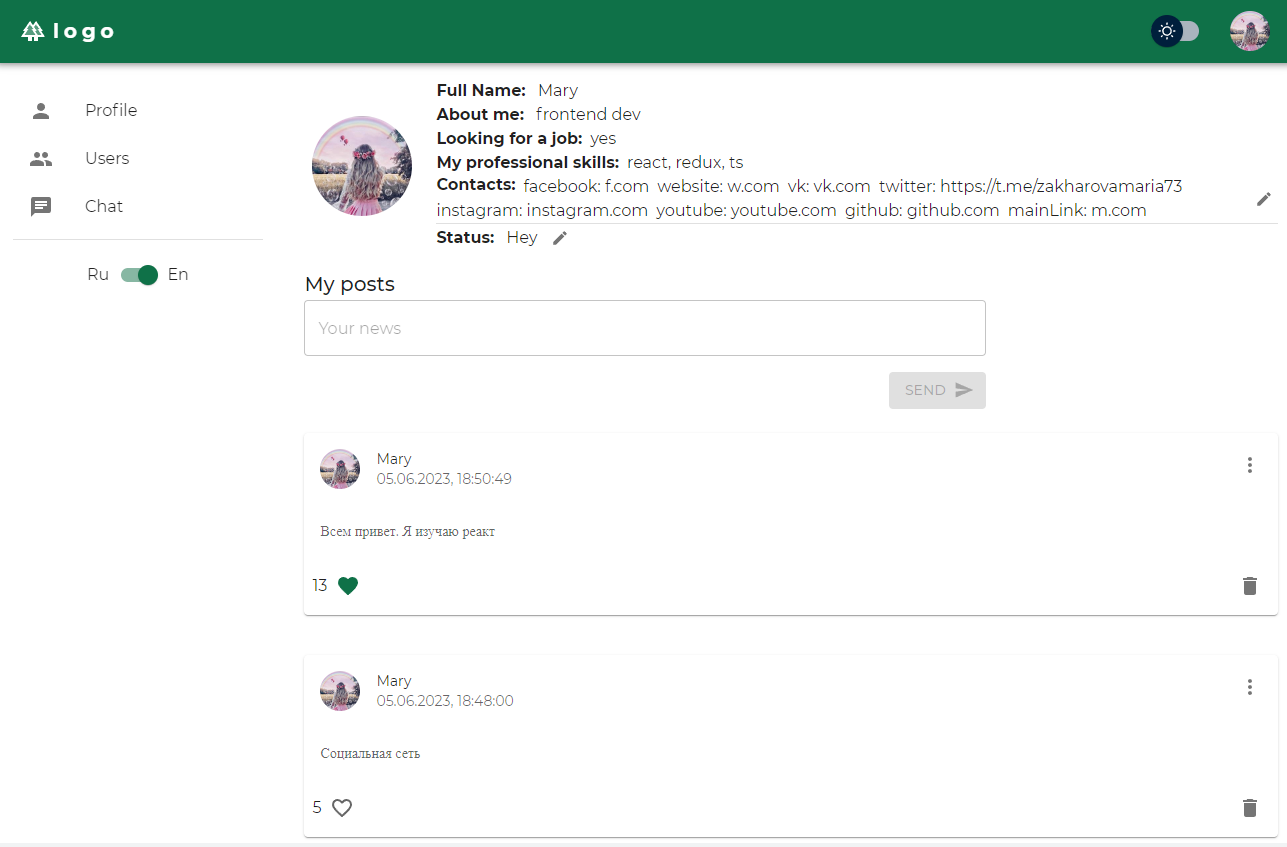
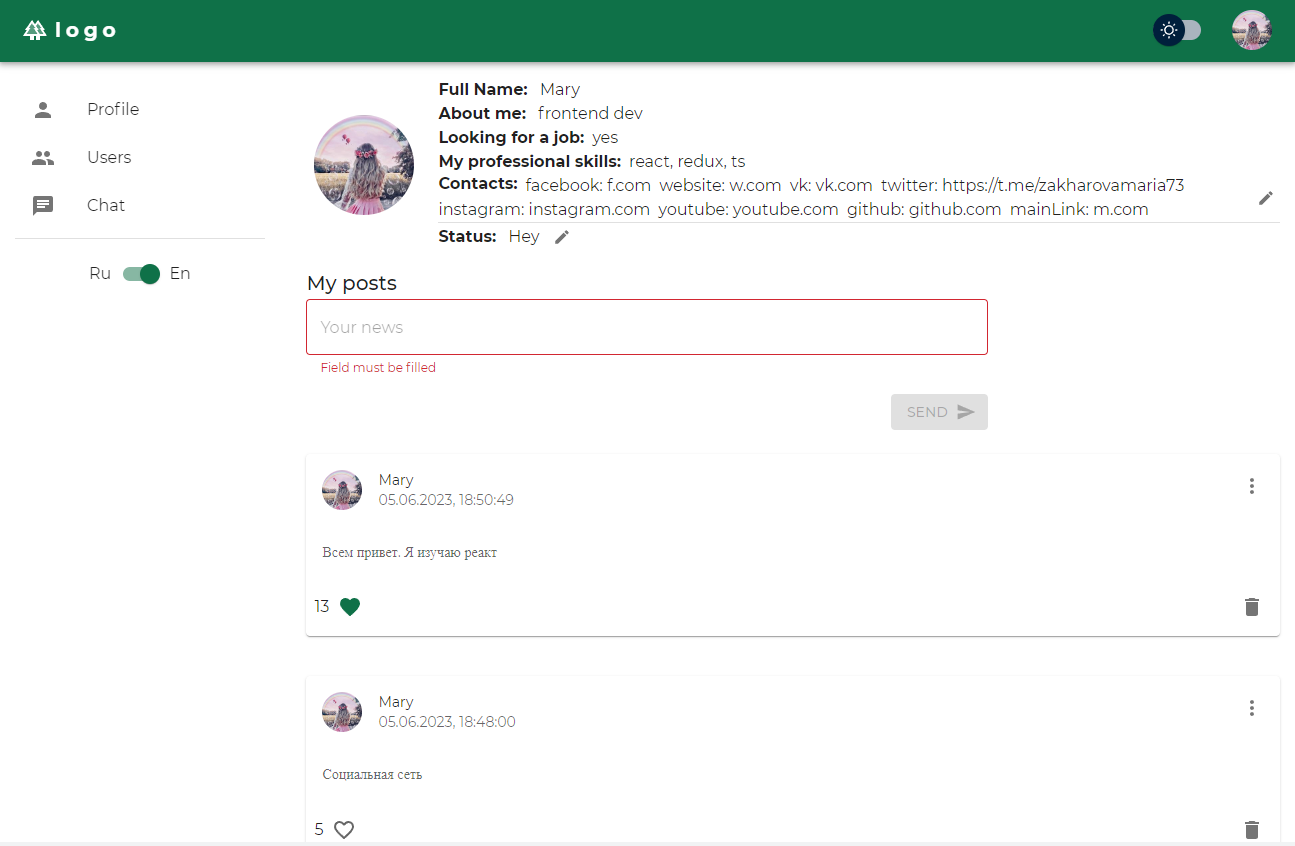
feat: language

diff --git a/src/components/Modal/ProfileForm.tsx b/src/components/Modal/ProfileForm.tsx
@@ -72,7 +72,9 @@ const ProfileForm: FC<IProfileForm> = ({ openForm, handleCloseModal, saveProfile
           <StyledModalForm>
             <FormikForm>
               <Stack spacing={2}>
-                {createField<ProfileFormTypeKeys>("fullName", t("fullName"), touched, errors)}
+                {createField<ProfileFormTypeKeys>("fullName", t("fullName"), touched, errors, t, {
+                  size: "small",
+                })}
                 <label style={{ fontFamily: "montserrat" }}>
                   <Field size="small" as={Checkbox} name="lookingForAJob" type="checkbox" />
                   {t("job")}
@@ -81,15 +83,19 @@ const ProfileForm: FC<IProfileForm> = ({ openForm, handleCloseModal, saveProfile
                   "lookingForAJobDescription",
                   t("skills"),
                   touched,
-                  errors
+                  errors,
+                  t,
+                  { size: "small" }
                 )}
-                {createField<ProfileFormTypeKeys>("aboutMe", t("aboutMe"), touched, errors)}
+                {createField<ProfileFormTypeKeys>("aboutMe", t("aboutMe"), touched, errors, t, {
+                  size: "small",
+                })}
                 <StyledStack direction="row">
                   {profile?.contacts &&
                     Object.keys(profile?.contacts).map((item) => {
                       return (
                         <React.Fragment key={item}>
-                          {createField(item, item, touched, errors)}
+                          {createField(item, item, touched, errors, t, { size: "small" })}
                         </React.Fragment>
                       );
                     })}

diff --git a/src/components/UsersSearchForm/UsersSearchForm.tsx b/src/components/UsersSearchForm/UsersSearchForm.tsx
@@ -1,5 +1,5 @@
 import React, { FC } from "react";
-import { Formik, Form, Field } from "formik";
+import { Formik, Form } from "formik";
 import { FilterType } from "../../redux/reducers/usersReducer";
 import { useSelector } from "react-redux";
 import { getUsersFilter } from "../../redux/selectors/usersSelectors";
@@ -12,8 +12,6 @@ import { useTranslation } from "react-i18next";
 
 interface IUsersSearchFormProps {
   onFilterChanged: (filter: FilterType) => void;
-  searchParams: URLSearchParams;
-  setSearchParams: any;
 }
 
 type FriendFormType = "true" | "false" | "null";
@@ -23,15 +21,13 @@ interface IFormValues {
   friend: FriendFormType;
 }
 
-const usersSearchFormValidate = (values: any) => {
+const usersSearchFormValidate = (values: IFormValues) => {
   const errors = {};
   return errors;
 };
 
 const UsersSearchForm: FC<IUsersSearchFormProps> = ({
   onFilterChanged,
-  searchParams,
-  setSearchParams,
 }) => {
   const { t } = useTranslation();
   const filter = useSelector(getUsersFilter);
@@ -57,7 +53,7 @@ const UsersSearchForm: FC<IUsersSearchFormProps> = ({
     >
       {({ isSubmitting, handleChange, values, errors, touched, dirty }) => (
         <Form className={s.form}>
-          {createField("term", t("search"), touched, errors, { size: "small" })}
+          {createField("term", t("search"), touched, errors, t, { size: "small" })}
           <TextField
             value={values.friend}
             size="small"

diff --git a/src/utils/validators.js b/src/utils/validators.js
@@ -1,18 +1,12 @@
 import * as Yup from "yup";
+import { REG_EXP } from "./constants";
 
 const validateUrl = () => {
-  return Yup.string()
-    .matches(
-      /((https?):\/\/)?(www.)?[a-z0-9]+(\.[a-z]{2,}){1,3}(#?\/?[a-zA-Z0-9#]+)*\/?(\?[a-zA-Z0-9-_]+=[a-zA-Z0-9-%]+&?)?$/,
-      "Введите корректный url!"
-    )
-    .required("Поле должно быть заполнено");
+  return Yup.string().matches(REG_EXP, "checkUrl").required("requiredField");
 };
 
 const validateText = () => {
-  return Yup.string()
-    .min(2, "Минимальная длина текста - 2 символа")
-    .required("Поле должно быть заполнено");
+  return Yup.string().min(2, "minLength").required("requiredField");
 };
 
 export const newPostTextSchema = Yup.object().shape({
@@ -24,10 +18,8 @@ export const newMessageBodySchema = Yup.object().shape({
 });
 
 export const loginSchema = Yup.object().shape({
-  email: Yup.string().email("Неверный email").required("Поле должно быть заполнено"),
-  password: Yup.string()
-    .min(4, "Минимальная длина пароля - 4 символов")
-    .required("Поле должно быть заполнено"),
+  email: Yup.string().email("checkEmail").required("requiredField"),
+  password: Yup.string().min(4, "passwordLength").required("requiredField"),
   rememberMe: Yup.boolean(),
   captcha: Yup.string(),
 });

diff --git a/src/components/LoginForm/LoginForm.tsx b/src/components/LoginForm/LoginForm.tsx
@@ -78,7 +78,7 @@ const LoginForm: FC<ILoginFormProps> = ({ captchaUrl }) => {
         <Box>
           <FormikForm>
             <Stack spacing={2}>
-              {createField<LoginFormValuesTypeKeys>("email", t("email"), touched, errors, {
+              {createField<LoginFormValuesTypeKeys>("email", t("email"), touched, errors, t, {
                 InputProps: {
                   startAdornment: (
                     <InputAdornment position="start">
@@ -87,7 +87,7 @@ const LoginForm: FC<ILoginFormProps> = ({ captchaUrl }) => {
                   ),
                 },
               })}
-              {createField<LoginFormValuesTypeKeys>("password", t("password"), touched, errors, {
+              {createField<LoginFormValuesTypeKeys>("password", t("password"), touched, errors, t, {
                 InputProps: {
                   endAdornment: (
                     <InputAdornment position="end">
@@ -121,7 +121,7 @@ const LoginForm: FC<ILoginFormProps> = ({ captchaUrl }) => {
               {captchaUrl && (
                 <div>
                   <img className={s.image} src={captchaUrl} alt="Captcha." />
-                  {createField("captcha", t("captcha"), touched, errors)}
+                  {createField("captcha", t("captcha"), touched, errors, t)}
                 </div>
               )}
             </Stack>

diff --git a/src/App.tsx b/src/App.tsx
@@ -15,7 +15,7 @@ import {
   CHAT_PATH,
 } from "./utils/constants";
 import { ThemeProvider } from "@mui/system";
-import { createTheme, GlobalStyles } from "@mui/material";
+import { createTheme, GlobalStyles, PaletteMode } from "@mui/material";
 import Box from "@mui/material/Box";
 import Stack from "@mui/material/Stack";
 import LoginPage from "./pages/LoginPage/LoginPage";
@@ -27,7 +27,7 @@ const ProfileContainer = React.lazy(() => import("./components/Profile/ProfileCo
 const ChatPage = React.lazy(() => import("./pages/ChatPage/ChatPage"));
 
 const App = () => {
-  const [mode, setMode] = useState<any>("light");
+  const [mode, setMode] = useState<PaletteMode | undefined>("light");
   const [open, setOpen] = useState(false);
 
   const theme = createTheme({
@@ -52,7 +52,7 @@ const App = () => {
   };
 
   const changeMode = () => {
-    setMode((prev: any) => (prev === "light" ? "dark" : "light"));
+    setMode((prev) => (prev === "light" ? "dark" : "light"));
     localStorage.setItem("theme", mode === "light" ? "dark" : "light");
   };
 
@@ -61,7 +61,7 @@ const App = () => {
   }, [dispatch]);
 
   useEffect(() => {
-    let theme = localStorage.getItem("theme");
+    let theme = localStorage.getItem("theme") as PaletteMode;
     if (theme) {
       setMode(theme);
     }

diff --git a/src/redux/actions/authActions.ts b/src/redux/actions/authActions.ts
@@ -36,11 +36,11 @@ export const loginThunkCreator = (
   email: string,
   password: string,
   rememberMe: boolean,
-  captcha: any,
-  setStatus: any,
-  setOpen: any
+  captcha: string,
+  setStatus: ({ testError }: { testError: string }) => void,
+  setOpen: (value: boolean) => void
 ): BaseThunkType<ActionTypes> => {
-  return async (dispatch: any) => {
+  return async (dispatch) => {
     const res = await authAPI.login(email, password, rememberMe, captcha);
     if (res.resultCode === ResultCodes.Success) {
       dispatch(getAuthUserDataThunkCreator());
@@ -56,7 +56,7 @@ export const loginThunkCreator = (
 };
 
 export const logoutThunkCreator = (): BaseThunkType<ActionTypes> => {
-  return async (dispatch: any) => {
+  return async (dispatch) => {
     const res = await authAPI.logout();
     if (res.resultCode === ResultCodes.Success) {
       //  зачищаем информацию о себе
@@ -73,7 +73,7 @@ export const getCaptchaUrlSuccessAC = (captchaUrl: string): IGetCaptchaUrlSucces
 };
 
 export const getCaptchaUrlThunkCreator = (): BaseThunkType<ActionTypes> => {
-  return async (dispatch: any) => {
+  return async (dispatch) => {
     const res = await securityAPI.getCaptchaUrl();
     const captchaUrl = res.url;
     console.log(captchaUrl);

diff --git a/src/components/Profile/ProfileContainer.tsx b/src/components/Profile/ProfileContainer.tsx
@@ -14,6 +14,7 @@ import { LOGIN_PATH } from "../../utils/constants";
 import { withAuthRedirect } from "../../HOC/withAuthRedirect";
 import { IProfile, IProfileData } from "../../types/types";
 import { AppStateType } from "../../redux/redux-store";
+import { NavigateFunction } from "react-router-dom";
 
 interface IMapStateProps {
   profile: IProfile | null;
@@ -26,15 +27,15 @@ interface IMapDispatchProps {
   getUserProfile: (userId: number) => void;
   getStatus: (userId: number) => void;
   updateStatus: (status: string) => void;
-  savePhoto: (file: any) => void;
+  savePhoto: (file: string | Blob) => void;
   saveProfile: (data: IProfileData) => void;
 }
 
 interface IOwnProps {
   router: {
-    location: any;
-    navigate: any;
-    params: { id: any };
+    location: Location;
+    navigate: NavigateFunction;
+    params: { id: number | null | "*"};
   };
 }
 
@@ -51,8 +52,8 @@ class ProfileContainer extends React.Component<PropsType> {
       }
     }
 
-    this.props.getUserProfile(userId);
-    this.props.getStatus(userId);
+    this.props.getUserProfile(userId as number);
+    this.props.getStatus(userId as number);
   }
 
   componentDidMount() {

diff --git a/src/components/Users/Users.tsx b/src/components/Users/Users.tsx
@@ -21,12 +21,9 @@ import {
 } from "../../redux/actions/usersActionsV2";
 import { AppDispatch } from "../../redux/redux-store";
 
-interface IUsersProps {
-  searchParams: URLSearchParams;
-  setSearchParams: any;
-}
+interface IUsersProps {}
 
-const Users: FC<IUsersProps> = ({ searchParams, setSearchParams }) => {
+const Users: FC<IUsersProps> = () => {
   const totalItemsCount = useSelector(getTotalUsersCount);
   const currentPage = useSelector(getCurrentPage);
   const pageSize = useSelector(getPageSize);
@@ -54,12 +51,8 @@ const Users: FC<IUsersProps> = ({ searchParams, setSearchParams }) => {
 
   return (
     <>
-      <Stack spacing={2} alignItems='center'>
-        <UsersSearchForm
-          searchParams={searchParams}
-          setSearchParams={setSearchParams}
-          onFilterChanged={onFilterChanged}
-        />
+      <Stack spacing={2} alignItems="center">
+        <UsersSearchForm onFilterChanged={onFilterChanged} />
         <Pagination
           page={currentPage}
           onChange={handlePageChange}

diff --git a/src/utils/helpers.tsx b/src/utils/helpers.tsx
@@ -1,5 +1,6 @@
 import TextField from "@mui/material/TextField";
-import { Field } from "formik";
+import { Field, FormikErrors, FormikTouched } from "formik";
+import i18next from "i18next";
 import { IProfile, IUser } from "../types/types";
 import { IProfileFormValues } from "./../components/Modal/ProfileForm";
 
@@ -34,8 +35,9 @@ export const changeStrValues = (dataFriend: string) => {
 export function createField<FormKeysType extends string>(
   name: FormKeysType,
   placeholder: string | null,
-  touched: any,
-  errors: any,
+  touched: FormikTouched<any>,
+  errors: FormikErrors<any>,
+  t: typeof i18next.t,
   props: any = {}
 ) {
   return (
@@ -44,7 +46,7 @@ export function createField<FormKeysType extends string>(
       placeholder={placeholder}
       as={TextField}
       error={touched[name] && !!errors[name]}
-      helperText={touched[name] && errors[name]}
+      helperText={touched[name] && t(errors[name])}
       {...props}
     />
   );

diff --git a/src/redux/actions/profileActions.ts b/src/redux/actions/profileActions.ts
@@ -22,7 +22,10 @@ export const addPostAC = (newPostText: string): IAddPostAction => {
   };
 };
 
-export const deletePostAC = (postId: number): IDeletePostAction => ({ type: DELETE_POST, postId });
+export const deletePostAC = (postId: number | string): IDeletePostAction => ({
+  type: DELETE_POST,
+  postId,
+});
 
 export const setUserProfileAC = (profile: IProfile): ISetUserProfileAction => ({
   type: SET_USER_PROFILE,
@@ -66,7 +69,7 @@ export const savePhotoSuccessAC = (photos: IPhotos): ISavePhotoSuccessAction => 
   photos,
 });
 
-export const savePhotoThunkCreator = (file: any): BaseThunkType<ActionTypes> => {
+export const savePhotoThunkCreator = (file: string | Blob): BaseThunkType<ActionTypes> => {
   return async (dispatch) => {
     const res = await profileAPI.savePhoto(file);
     if (res.resultCode === 0) {

diff --git a/src/components/Modal/EditPhotoModal.tsx b/src/components/Modal/EditPhotoModal.tsx
@@ -7,17 +7,17 @@ import { useTranslation } from "react-i18next";
 
 interface IEditPhotoModal {
   openModal: boolean;
-  savePhoto: (file: any) => void;
+  savePhoto: (file: string | Blob) => void;
   handleCloseModal: () => void;
 }
 
 const EditPhotoModal: FC<IEditPhotoModal> = ({ openModal, savePhoto, handleCloseModal }) => {
   const { t } = useTranslation();
-  const [file, setFile] = React.useState(null);
+  const [file, setFile] = React.useState<File | null>(null);
 
-  const handleChange = (newFile: any) => {
+  const handleChange = (newFile: File | null) => {
     setFile(newFile);
-    savePhoto(newFile);
+    savePhoto(newFile as string | Blob);
     setTimeout(() => {
       handleCloseModal();
     }, 2000);

diff --git a/src/pages/UsersPage/UsersPage.tsx b/src/pages/UsersPage/UsersPage.tsx
@@ -11,7 +11,6 @@ import { CircularProgress } from "@mui/material";
 import { AppDispatch } from "../../redux/redux-store";
 import { getUsersThunkCreator } from "../../redux/actions/usersActionsV2";
 import { useLocation, useSearchParams } from "react-router-dom";
-// @ts-ignore
 import queryString from "query-string";
 import { changeStrValues } from "../../utils/helpers";
 
@@ -57,7 +56,7 @@ const UsersPage: FC<IUsresProps> = () => {
       {isFetching ? (
         <CircularProgress thickness={5} color="secondary" size={50} />
       ) : (
-        <Users searchParams={searchParams} setSearchParams={setSearchParams} />
+        <Users />
       )}
     </div>
   );
